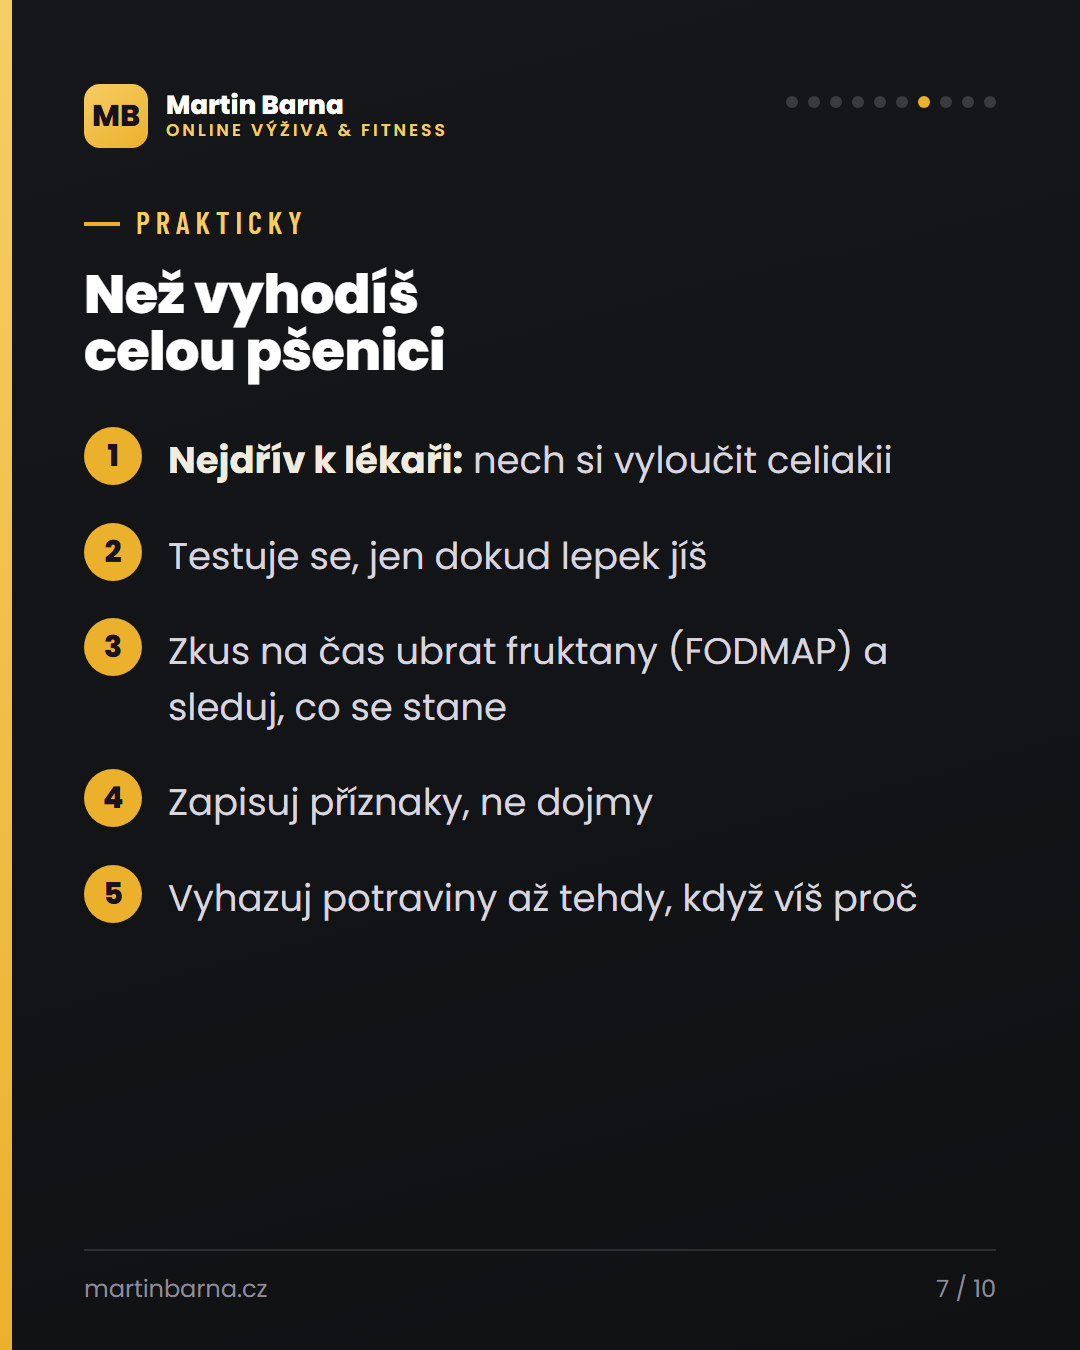
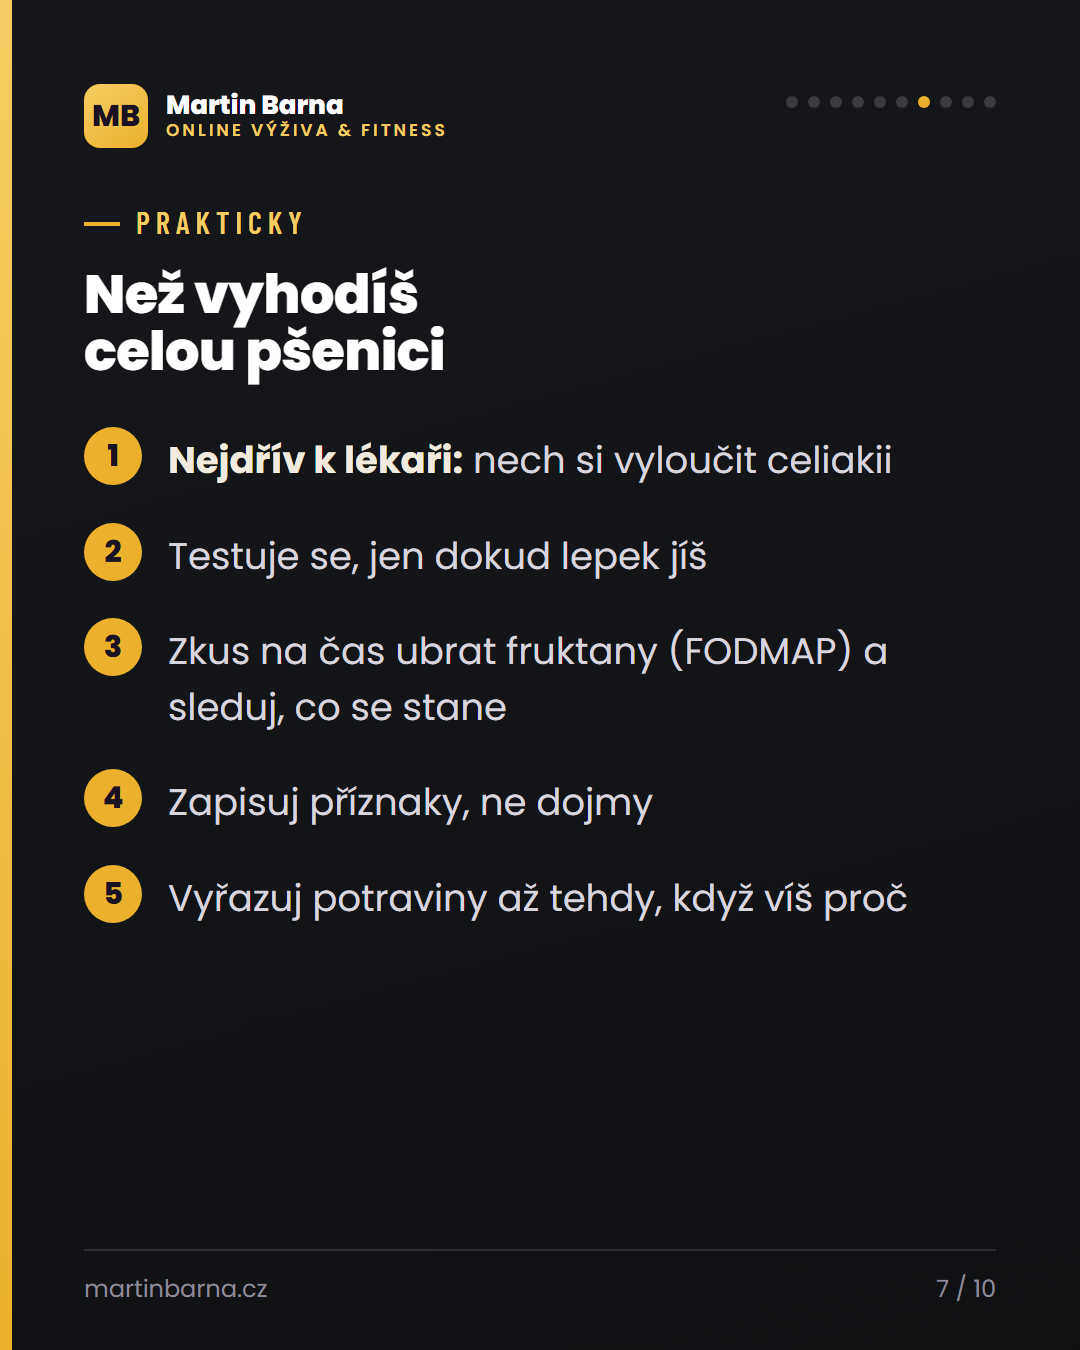
Infografiky: Martinovy korekce dilu lepek-nocebo a testosteron
Lepek (5 slidu): uvozovky kolem "jistotu" (2), vyrobi -> vytvori v titulku
i v textu (5), "muze to byt fruktanem" (6), Vyhazuj -> Vyrazuj (7),
odstranena ozdobna uvozovka nad citatem (9).

Testosteron (2 slidy): prepsany druhy odstavec o tom, PROC neni trenink
proti testosteronu (7), nova zneni ctyr bodu v boxu "Hybe s tim nejvic" (8).

POZOR: ozdobna uvozovka se odstranila v GENERATORU, takze se to tyka vsech
33 temat s citatovym slidem. Pregenerovana jsou zatim jen tahle dve, ostatni
maji PNG v repu jeste se starou uvozovkou.

Overeno: kontrola-preteceni 0/20 (hlidac zkousen vynucenou chybou, chytil ji),
kontrola-cestiny bez nalezu v techto dvou tematech, zmenilo se presne 7 slidu
a zadny jiny, vsech 7 prohlednuto okem.

Changed region(s): [[0.2139, 0.6533, 0.8556, 0.6844]]

diff --git a/scripts/generate-carousel.js b/scripts/generate-carousel.js
@@ -259,10 +259,14 @@ const KINDS = {
       ${patka(s, true, true)}
     </div>`;
   },
+  /** ⛔ Ozdobná uvozovka (Georgia, 190 px, zlatá) nad citátem se 8. 8. 2026 ODSTRANILA
+   *  na Martinův pokyn při revizi tématu `lepek-nocebo`. Znovu ji sem nevracej.
+   *  ⚠ Týká se to VŠECH témat s citátovým slidem, ne jen toho jednoho: je jich 33
+   *  z 38 a jejich PNG v repu je proto potřeba přegenerovat, jinak se obrázek
+   *  rozejde se šablonou. */
   quote(s, i, n) {
     return `<div class="wrap">${BRAND}${dots(i, n)}
       <div style="flex:1;display:flex;flex-direction:column;justify-content:center;padding-bottom:100px">
-        <div style="font-family:Georgia,serif;font-size:190px;line-height:.5;color:${GOLD};opacity:.5;margin-bottom:30px">“</div>
         <div style="font-weight:800;font-size:64px;line-height:1.25;color:#fff">${s.text}</div>
         ${s.note ? `<div class="body" style="margin-top:40px;font-size:34px">${s.note}</div>` : ''}
         <div style="margin-top:52px;display:flex;align-items:center;gap:22px">
